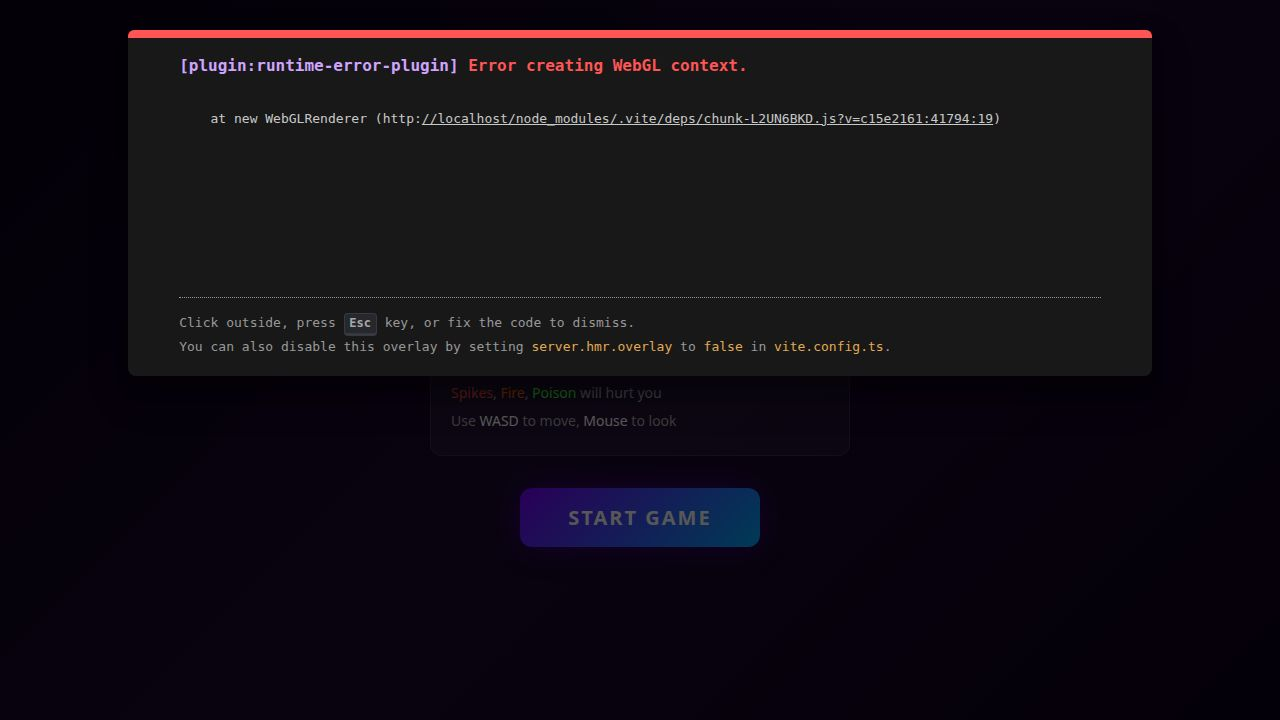
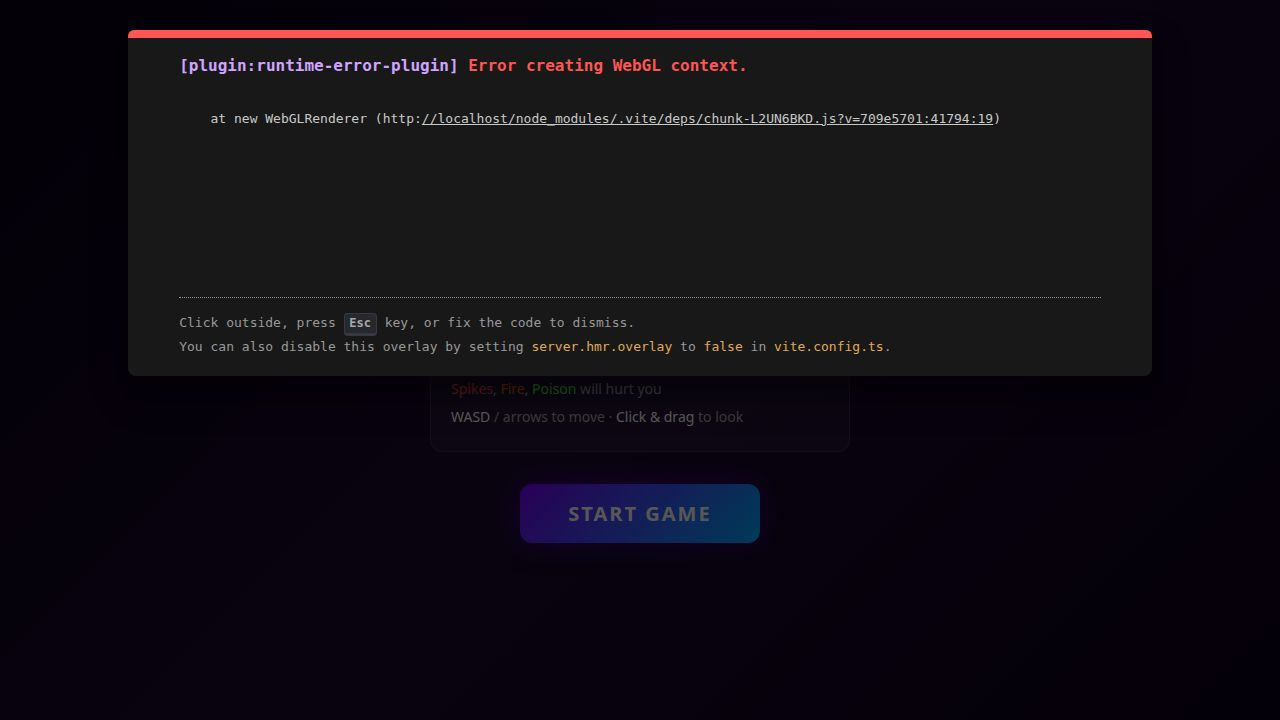
Add first-person controls and mouse look to the 3D maze game
Replaces previous input handling with Three.js PointerLockControls for smoother first-person camera movement and WASD/arrow key controls relative to player facing direction.

Replit-Commit-Author: Agent
Replit-Commit-Session-Id: 384811db-b8a1-426d-84a9-50fa1684bbd4
Replit-Commit-Checkpoint-Type: full_checkpoint
Replit-Commit-Event-Id: c679f7ab-25de-4a08-a7b1-977bf9e75058
Replit-Commit-Screenshot-Url: https://storage.googleapis.com/screenshot-production-us-central1/19ce7dac-517e-4eed-88c1-fdd8c0bb7fe4/384811db-b8a1-426d-84a9-50fa1684bbd4/q8wtwiL
Replit-Helium-Checkpoint-Created: true

Changed region(s): [[0.4062, 0.6722, 0.5938, 0.7639], [0.3438, 0.5194, 0.5312, 0.6111], [0.6562, 0.1528, 0.7188, 0.1833]]

diff --git a/artifacts/3d-game/src/game/Player.tsx b/artifacts/3d-game/src/game/Player.tsx
@@ -1,13 +1,16 @@
-import { useRef, useEffect } from "react";
+import { useRef, useEffect, useState } from "react";
 import { useFrame, useThree } from "@react-three/fiber";
+import { PointerLockControls } from "@react-three/drei";
 import * as THREE from "three";
+import type { PointerLockControls as PLCType } from "three/examples/jsm/controls/PointerLockControls.js";
 import { useGameStore } from "./useGameStore";
 import { MAZE_LAYOUT, CELL_SIZE, getExitPosition, getPlayerStart } from "./mazeData";
 
 const MOVE_SPEED = 6;
-const PLAYER_RADIUS = 0.5;
+const PLAYER_RADIUS = 0.45;
 const COLLECT_RADIUS = 1.5;
 const OBSTACLE_RADIUS = 1.2;
+const EYE_HEIGHT = 1.6;
 
 function worldToGrid(x: number, z: number): [number, number] {
   const cols = MAZE_LAYOUT[0].length;
@@ -23,50 +26,67 @@ function isWall(row: number, col: number): boolean {
 }
 
 function canMoveTo(x: number, z: number): boolean {
-  const offsets = [[PLAYER_RADIUS, PLAYER_RADIUS],[PLAYER_RADIUS,-PLAYER_RADIUS],[-PLAYER_RADIUS,PLAYER_RADIUS],[-PLAYER_RADIUS,-PLAYER_RADIUS]];
-  for (const [dx, dz] of offsets) {
-    const [row, col] = worldToGrid(x + dx, z + dz);
-    if (isWall(row, col)) return false;
-  }
-  return true;
+  const checks = [
+    [x + PLAYER_RADIUS, z + PLAYER_RADIUS],
+    [x + PLAYER_RADIUS, z - PLAYER_RADIUS],
+    [x - PLAYER_RADIUS, z + PLAYER_RADIUS],
+    [x - PLAYER_RADIUS, z - PLAYER_RADIUS],
+  ];
+  return checks.every(([cx, cz]) => {
+    const [row, col] = worldToGrid(cx, cz);
+    return !isWall(row, col);
+  });
 }
 
-// Shared input state — written by InputOverlay, read by Player
-export const inputState = {
-  forward: false,
-  back: false,
-  left: false,
-  right: false,
-  yawDelta: 0,
-  pitchDelta: 0,
-};
+interface PlayerProps {
+  onLockChange: (locked: boolean) => void;
+}
 
-export default function Player() {
+export default function Player({ onLockChange }: PlayerProps) {
   const { camera } = useThree();
-  const yaw = useRef(0);
-  const pitch = useRef(0);
-  const position = useRef(new THREE.Vector3());
+  const controlsRef = useRef<PLCType>(null);
+  const posRef = useRef(new THREE.Vector3());
+  const keysRef = useRef({ forward: false, back: false, left: false, right: false });
   const damageCooldown = useRef(0);
 
   const { gameState, collectibles, obstacles, collectedIds, collectItem, takeDamage, winGame, updateTime } = useGameStore();
-  const startPos = getPlayerStart();
   const exitPos = getExitPosition();
 
+  // Place player at start when game begins
   useEffect(() => {
     if (gameState === "playing") {
-      position.current.set(startPos[0], 1.6, startPos[2]);
-      yaw.current = 0;
-      pitch.current = 0;
-      camera.position.set(startPos[0], 1.6, startPos[2]);
+      const [sx, , sz] = getPlayerStart();
+      posRef.current.set(sx, EYE_HEIGHT, sz);
+      camera.position.set(sx, EYE_HEIGHT, sz);
       camera.rotation.set(0, 0, 0);
-      inputState.forward = false;
-      inputState.back = false;
-      inputState.left = false;
-      inputState.right = false;
-      inputState.yawDelta = 0;
-      inputState.pitchDelta = 0;
+      keysRef.current = { forward: false, back: false, left: false, right: false };
     }
-  }, [gameState, startPos, camera]);
+    if (gameState !== "playing") {
+      controlsRef.current?.unlock();
+    }
+  }, [gameState, camera]);
+
+  // Keyboard listeners attached directly to document
+  useEffect(() => {
+    const onDown = (e: KeyboardEvent) => {
+      if (e.code === "KeyW" || e.code === "ArrowUp")    keysRef.current.forward = true;
+      if (e.code === "KeyS" || e.code === "ArrowDown")  keysRef.current.back    = true;
+      if (e.code === "KeyA" || e.code === "ArrowLeft")  keysRef.current.left    = true;
+      if (e.code === "KeyD" || e.code === "ArrowRight") keysRef.current.right   = true;
+    };
+    const onUp = (e: KeyboardEvent) => {
+      if (e.code === "KeyW" || e.code === "ArrowUp")    keysRef.current.forward = false;
+      if (e.code === "KeyS" || e.code === "ArrowDown")  keysRef.current.back    = false;
+      if (e.code === "KeyA" || e.code === "ArrowLeft")  keysRef.current.left    = false;
+      if (e.code === "KeyD" || e.code === "ArrowRight") keysRef.current.right   = false;
+    };
+    document.addEventListener("keydown", onDown);
+    document.addEventListener("keyup", onUp);
+    return () => {
+      document.removeEventListener("keydown", onDown);
+      document.removeEventListener("keyup", onUp);
+    };
+  }, []);
 
   useFrame((_, delta) => {
     if (gameState !== "playing") return;
@@ -74,54 +94,69 @@ export default function Player() {
     updateTime(delta);
     damageCooldown.current = Math.max(0, damageCooldown.current - delta);
 
-    // Apply mouse look deltas
-    yaw.current -= inputState.yawDelta;
-    pitch.current = Math.max(-Math.PI / 3, Math.min(Math.PI / 3, pitch.current - inputState.pitchDelta));
-    inputState.yawDelta = 0;
-    inputState.pitchDelta = 0;
+    const locked = controlsRef.current?.isLocked ?? false;
+    if (locked) {
+      // Flat forward direction from camera (ignores vertical look pitch)
+      const forward = new THREE.Vector3();
+      camera.getWorldDirection(forward);
+      forward.y = 0;
+      forward.normalize();
 
-    // Movement
-    const fwd = new THREE.Vector3(0, 0, -1).applyAxisAngle(new THREE.Vector3(0, 1, 0), yaw.current);
-    const rgt = new THREE.Vector3().crossVectors(fwd, new THREE.Vector3(0, 1, 0));
-    const moveDir = new THREE.Vector3();
-    if (inputState.forward) moveDir.add(fwd);
-    if (inputState.back) moveDir.sub(fwd);
-    if (inputState.left) moveDir.sub(rgt);
-    if (inputState.right) moveDir.add(rgt);
+      const right = new THREE.Vector3();
+      right.crossVectors(forward, new THREE.Vector3(0, 1, 0)).normalize();
 
-    if (moveDir.length() > 0) {
-      moveDir.normalize().multiplyScalar(MOVE_SPEED * delta);
-      const newX = position.current.x + moveDir.x;
-      const newZ = position.current.z + moveDir.z;
-      if (canMoveTo(newX, position.current.z)) position.current.x = newX;
-      if (canMoveTo(position.current.x, newZ)) position.current.z = newZ;
+      const move = new THREE.Vector3();
+      if (keysRef.current.forward) move.add(forward);
+      if (keysRef.current.back)    move.sub(forward);
+      if (keysRef.current.left)    move.sub(right);
+      if (keysRef.current.right)   move.add(right);
+
+      if (move.length() > 0) {
+        move.normalize().multiplyScalar(MOVE_SPEED * delta);
+        const nx = posRef.current.x + move.x;
+        const nz = posRef.current.z + move.z;
+        if (canMoveTo(nx, posRef.current.z)) posRef.current.x = nx;
+        if (canMoveTo(posRef.current.x, nz)) posRef.current.z = nz;
+      }
+
+      // Pin camera to player position (PointerLockControls manages rotation)
+      camera.position.x = posRef.current.x;
+      camera.position.y = EYE_HEIGHT;
+      camera.position.z = posRef.current.z;
     }
 
-    camera.position.copy(position.current);
-    camera.quaternion.setFromEuler(new THREE.Euler(pitch.current, yaw.current, 0, "YXZ"));
-
-    // Collect items
+    // Item collection
     for (const c of collectibles) {
       if (collectedIds.has(c.id)) continue;
-      const dist = Math.hypot(position.current.x - c.position[0], position.current.z - c.position[2]);
-      if (dist < COLLECT_RADIUS) collectItem(c.id, c.points);
+      const d = Math.hypot(posRef.current.x - c.position[0], posRef.current.z - c.position[2]);
+      if (d < COLLECT_RADIUS) collectItem(c.id, c.points);
     }
 
     // Obstacle damage
     if (damageCooldown.current <= 0) {
       for (const o of obstacles) {
-        const dist = Math.hypot(position.current.x - o.position[0], position.current.z - o.position[2]);
-        if (dist < OBSTACLE_RADIUS) {
+        const d = Math.hypot(posRef.current.x - o.position[0], posRef.current.z - o.position[2]);
+        if (d < OBSTACLE_RADIUS) {
           takeDamage(o.damage);
-          damageCooldown.current = 1;
+          damageCooldown.current = 1.5;
           break;
         }
       }
     }
 
-    // Win
-    if (Math.hypot(position.current.x - exitPos[0], position.current.z - exitPos[2]) < 2) winGame();
+    // Exit check
+    if (Math.hypot(posRef.current.x - exitPos[0], posRef.current.z - exitPos[2]) < 2) {
+      winGame();
+    }
   });
 
-  return null;
+  if (gameState !== "playing") return null;
+
+  return (
+    <PointerLockControls
+      ref={controlsRef as any}
+      onLock={() => onLockChange(true)}
+      onUnlock={() => onLockChange(false)}
+    />
+  );
 }

diff --git a/artifacts/3d-game/src/game/MazeScene.tsx b/artifacts/3d-game/src/game/MazeScene.tsx
@@ -1,3 +1,4 @@
+import { useState } from "react";
 import { Canvas } from "@react-three/fiber";
 import MazeWalls from "./MazeWalls";
 import Floor from "./Floor";
@@ -8,17 +9,14 @@ import ExitPortal from "./ExitPortal";
 import PlayerLight from "./PlayerLight";
 import HUD from "./HUD";
 import GameUI from "./GameUI";
-import InputOverlay from "./InputOverlay";
 import { useGameStore } from "./useGameStore";
 
-function SceneContent() {
+function SceneContent({ onLockChange }: { onLockChange: (v: boolean) => void }) {
   const { collectibles, obstacles, collectedIds, gameState } = useGameStore();
-
   if (gameState === "menu") return null;
-
   return (
     <>
-      <ambientLight intensity={0.4} color="#ffffff" />
+      <ambientLight intensity={0.4} />
       <fog attach="fog" args={["#110022", 18, 50]} />
       <Floor />
       <MazeWalls />
@@ -30,23 +28,67 @@ function SceneContent() {
         <Obstacle key={o.id} data={o} />
       ))}
       <PlayerLight />
-      <Player />
+      <Player onLockChange={onLockChange} />
     </>
   );
 }
 
 export default function MazeScene() {
+  const [locked, setLocked] = useState(false);
+  const { gameState } = useGameStore();
+
   return (
     <div style={{ width: "100vw", height: "100vh", background: "#0a0015" }}>
       <Canvas
-        camera={{ fov: 75, near: 0.1, far: 100, position: [0, 1.6, 0] }}
+        camera={{ fov: 75, near: 0.1, far: 100 }}
         style={{ width: "100%", height: "100%", display: "block" }}
       >
-        <SceneContent />
+        <SceneContent onLockChange={setLocked} />
       </Canvas>
+
       <HUD />
       <GameUI />
-      <InputOverlay />
+
+      {/* Click-to-lock overlay shown only when playing but not locked */}
+      {gameState === "playing" && !locked && (
+        <div
+          style={{
+            position: "fixed",
+            inset: 0,
+            display: "flex",
+            flexDirection: "column",
+            alignItems: "center",
+            justifyContent: "center",
+            background: "rgba(0,0,0,0.6)",
+            zIndex: 150,
+            cursor: "pointer",
+            fontFamily: "sans-serif",
+          }}
+          onClick={() => {
+            const canvas = document.querySelector("canvas");
+            canvas?.requestPointerLock();
+          }}
+        >
+          <div style={{
+            background: "rgba(255,255,255,0.1)",
+            border: "2px solid rgba(255,255,255,0.3)",
+            borderRadius: 16,
+            padding: "32px 48px",
+            textAlign: "center",
+          }}>
+            <div style={{ fontSize: 48, marginBottom: 12 }}>🖱</div>
+            <div style={{ color: "#fff", fontSize: 22, fontWeight: 700, marginBottom: 8 }}>
+              Click to Play
+            </div>
+            <div style={{ color: "rgba(255,255,255,0.6)", fontSize: 14 }}>
+              WASD / arrows to move · Mouse to look
+            </div>
+            <div style={{ color: "rgba(255,255,255,0.4)", fontSize: 12, marginTop: 8 }}>
+              Press Esc to pause
+            </div>
+          </div>
+        </div>
+      )}
     </div>
   );
 }
